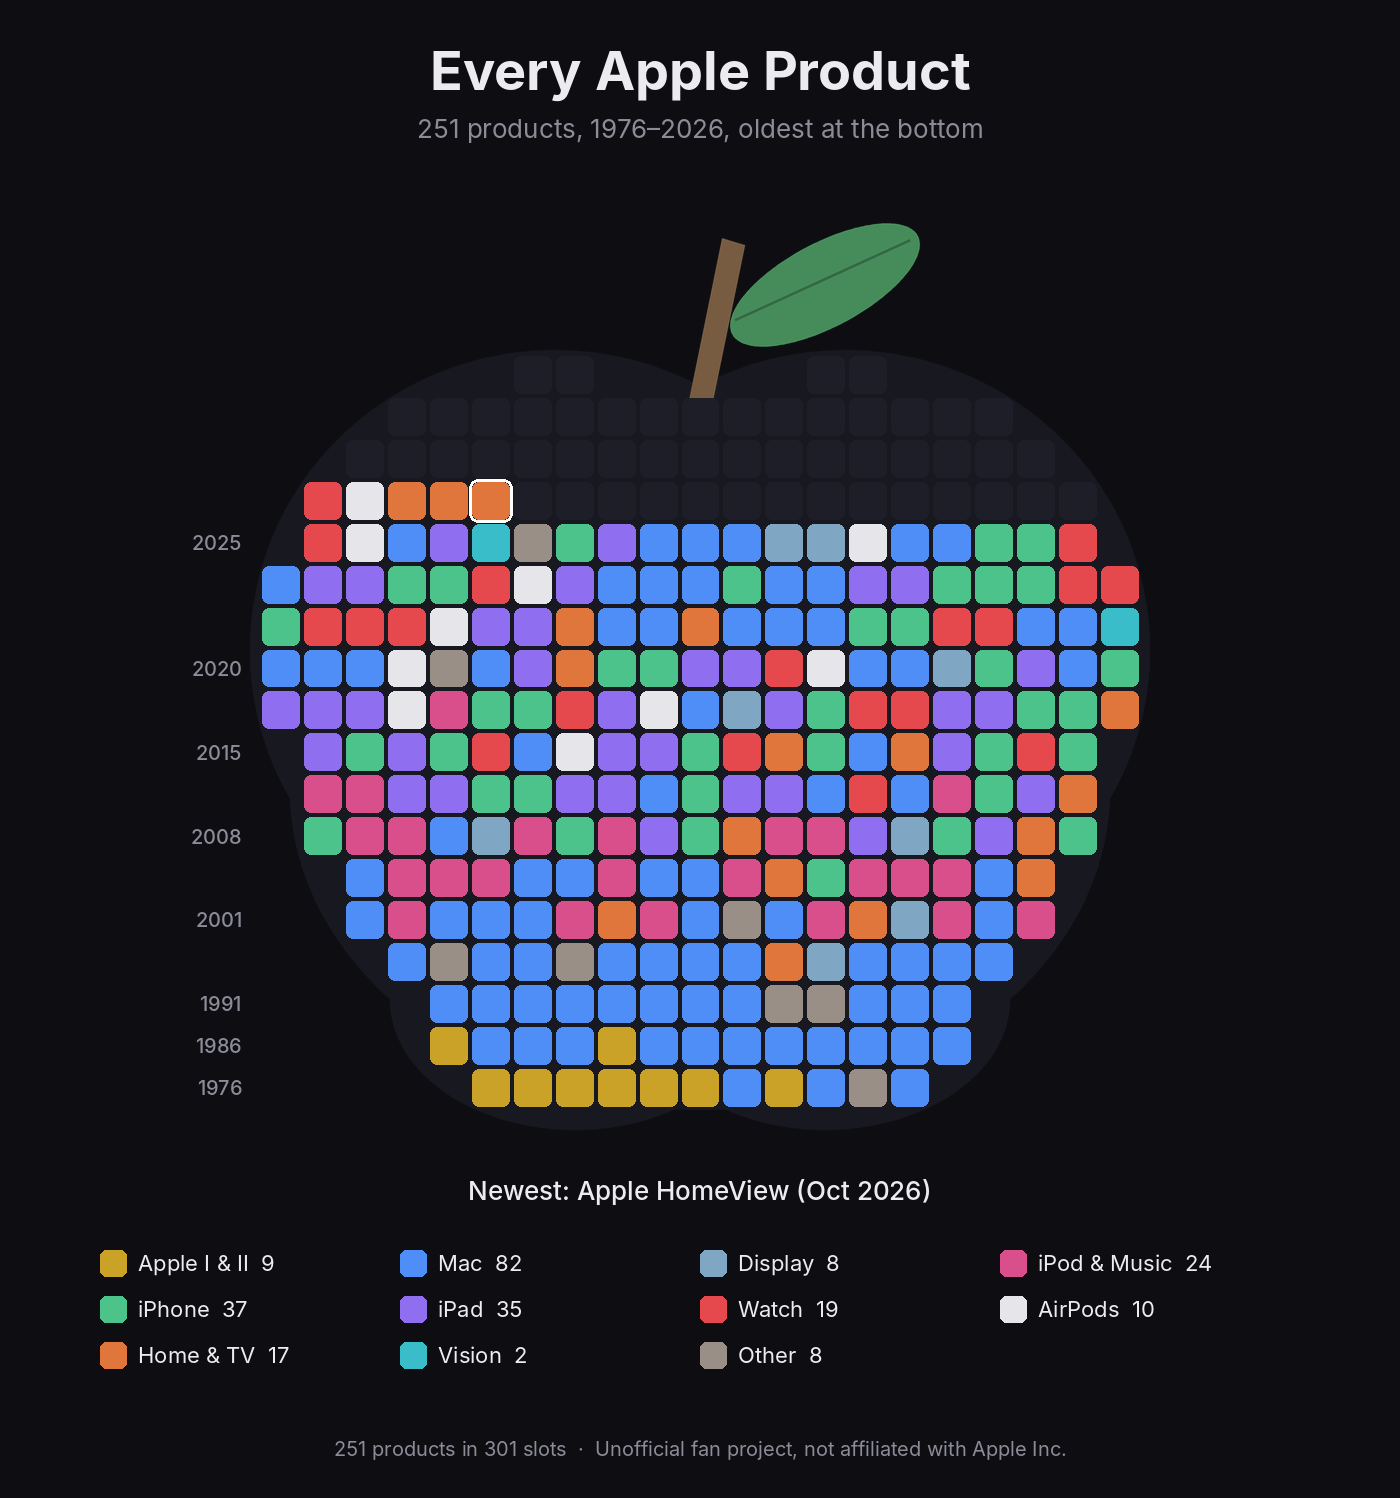
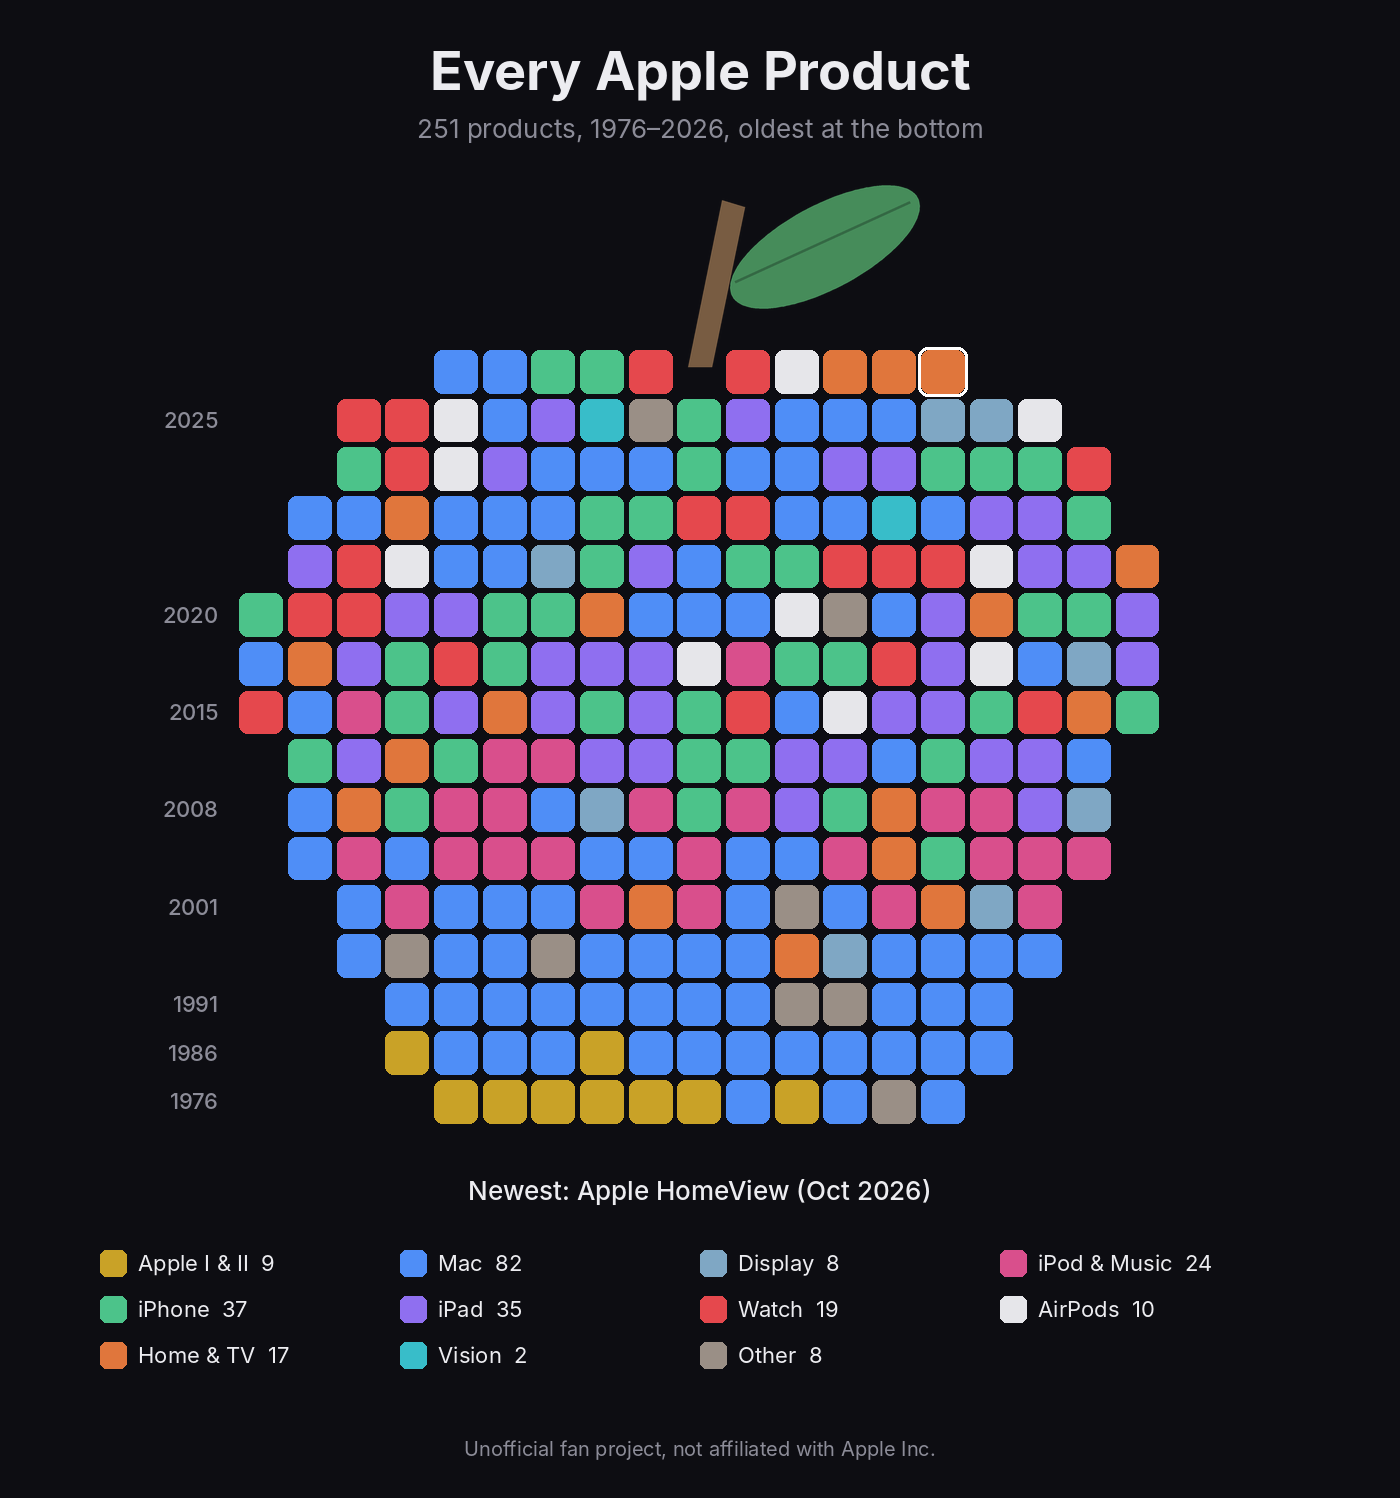
Fill the apple completely with no outline or empty slots
Claude-Session: https://claude.ai/code/session_01MyV9r8x459Jz8C5bHCgrmS

diff --git a/scripts/render.py b/scripts/render.py
@@ -21,13 +21,14 @@ from common import CATEGORIES, OUTPUT_DIR, load_products
 BACKGROUND = (13, 13, 18)
 TEXT = (236, 236, 240)
 MUTED = (140, 140, 152)
-EMPTY_TILE = (30, 30, 40)
 STEM = (120, 92, 66)
 LEAF = (70, 140, 90)
 
 WIDTH = 1400
 SHAPE_SIZE = 1000  # width and height of the square box the apple is drawn in
 SUPERSAMPLE = 4
+STEM_BASE = 0.255  # where the stem meets the apple, as a share of SHAPE_SIZE
+LEAF_TOP = 0.08   # highest point of the stem and leaf
 
 
 # --------------------------------------------------------------------------- fonts
@@ -113,51 +114,57 @@ class Cell:
     size: float
 
 
-def grid_cells(mask: np.ndarray, cell: float) -> list[Cell]:
-    """Every square cell of the given size that sits fully inside the mask."""
+def _coverage(mask: np.ndarray, cell: float, ox: float, oy: float):
+    """Grid of candidate cells and the share of each cell that lies inside the mask."""
     h, w = mask.shape
-    inset = cell * 0.08
-    cells = []
-    rows = int(h // cell)
-    cols = int(w // cell)
-    x_offset = (w - cols * cell) / 2
-    y_offset = (h - rows * cell)  # align the grid to the bottom so it fills upward
-    for r in range(rows):
-        for c in range(cols):
-            x0 = x_offset + c * cell
-            y0 = y_offset + r * cell
-            probes = [
-                (x0 + cell / 2, y0 + cell / 2),
-                (x0 + inset, y0 + inset),
-                (x0 + cell - inset, y0 + inset),
-                (x0 + inset, y0 + cell - inset),
-                (x0 + cell - inset, y0 + cell - inset),
-            ]
-            if all(mask[int(py), int(px)] > 127 for px, py in probes):
-                cells.append(Cell(x0, y0, cell))
+    cols = np.arange(-1, int(w / cell) + 1)
+    rows = np.arange(-1, int(h / cell) + 1)
+    x0 = ox + cols * cell
+    y0 = h - oy - (rows + 1) * cell  # rows counted upward from the bottom edge
+    samples = (np.arange(4) + 0.5) / 4 * cell
+    xs = (x0[None, :, None] + samples[None, None, :])  # (1, cols, 4)
+    ys = (y0[:, None, None] + samples[None, None, :])  # (rows, 1, 4)
+    xi = np.clip(xs.astype(int), 0, w - 1)
+    yi = np.clip(ys.astype(int), 0, h - 1)
+    inside = mask[yi[:, :, :, None], xi[:, :, None, :]] > 127  # (rows, cols, 4, 4)
+    valid = ((xs >= 0) & (xs < w))[:, :, None, :] & ((ys >= 0) & (ys < h))[:, :, :, None]
+    coverage = (inside & valid).mean(axis=(2, 3))
+    return x0, y0, coverage
+
+
+def exact_grid(mask: np.ndarray, count: int, threshold: float = 0.5) -> list[Cell]:
+    """Exactly `count` square tiles that together fill the whole apple.
+
+    The search tries many tile sizes and grid offsets and keeps the largest tile size
+    whose grid has at least `count` cells that are mostly inside the shape. If that grid
+    has a few extra cells, the ones least inside the shape are dropped, so the apple is
+    always completely full with no empty slots.
+    """
+    if count <= 0:
+        return []
+    offsets = [0.0, 0.25, 0.5, 0.75]
+    best = None  # (cell size, surplus, x0, y0, coverage)
+    lo, hi = 2.0, mask.shape[0] / 2
+    for _ in range(36):
+        mid = (lo + hi) / 2
+        candidate = None
+        for fx in offsets:
+            for fy in offsets:
+                x0, y0, cov = _coverage(mask, mid, fx * mid, fy * mid)
+                n = int((cov >= threshold).sum())
+                if n >= count and (candidate is None or n - count < candidate[1]):
+                    candidate = (mid, n - count, x0, y0, cov)
+        if candidate:
+            best, lo = candidate, mid
+        else:
+            hi = mid
+    size, _, x0, y0, cov = best
+    r_idx, c_idx = np.nonzero(cov >= threshold)
+    order = np.argsort(-cov[r_idx, c_idx], kind="stable")[:count]
+    cells = [Cell(float(x0[c_idx[i]]), float(y0[r_idx[i]]), size) for i in order]
     # Fill order: bottom row first, left to right, like water filling a glass.
     cells.sort(key=lambda k: (-round(k.y, 3), k.x))
     return cells
-
-
-def fit_grid(mask: np.ndarray, capacity: int) -> list[Cell]:
-    """Largest cell size that still yields at least `capacity` cells."""
-    lo, hi = 4.0, mask.shape[0] / 2
-    best = grid_cells(mask, lo)
-    for _ in range(40):
-        mid = (lo + hi) / 2
-        cells = grid_cells(mask, mid)
-        if len(cells) >= capacity:
-            best, lo = cells, mid
-        else:
-            hi = mid
-    return best
-
-
-def capacity_for(count: int, step: int) -> int:
-    """Round up to the next step so the apple visibly fills before it resizes."""
-    target = math.ceil(count * 1.05)
-    return max(step, math.ceil(target / step) * step)
 
 
 # --------------------------------------------------------------------------- drawing helpers
@@ -210,17 +217,21 @@ def fit_label(text: str, max_width: float, start_size: int):
 
 # --------------------------------------------------------------------------- main render
 
-def render(products: list[dict], title: str, subtitle: str, step: int,
+def render(products: list[dict], title: str, subtitle: str,
            show_labels: bool, row_years: bool, cells: list[Cell] | None = None,
            highlight_newest: bool = True,
            legend: list[str] | None = None) -> tuple[Image.Image, list[Cell]]:
     mask_img = body_mask(SHAPE_SIZE)
     mask = np.array(mask_img)
     if cells is None:
-        cells = fit_grid(mask, capacity_for(len(products), step))
+        cells = exact_grid(mask, len(products))
 
     shape_x = (WIDTH - SHAPE_SIZE) // 2
-    shape_y = 150
+    # The stem's base tucks just inside the top row of tiles, wherever that row lands.
+    cell_size = cells[0].size if cells else 0
+    top_tile = min((c.y for c in cells), default=STEM_BASE * SHAPE_SIZE)
+    stem_shift = int(top_tile + 0.4 * cell_size - STEM_BASE * SHAPE_SIZE)
+    shape_y = max(150, 175 - int(LEAF_TOP * SHAPE_SIZE) - stem_shift)
     categories = legend or [c for c in CATEGORIES if any(p["category"] == c for p in products)]
     legend_rows = math.ceil(len(categories) / 4) if categories else 0
     height = shape_y + SHAPE_SIZE + 90 + legend_rows * 46 + 120
@@ -232,23 +243,14 @@ def render(products: list[dict], title: str, subtitle: str, step: int,
     draw.text((WIDTH / 2, 70), title, font=font(54, "Bold"), fill=TEXT, anchor="mm")
     draw.text((WIDTH / 2, 128), subtitle, font=font(26), fill=MUTED, anchor="mm")
 
-    # Faint silhouette so empty space still reads as an apple.
-    ghost = Image.new("RGBA", (SHAPE_SIZE, SHAPE_SIZE), (24, 24, 32, 255))
-    canvas.paste(ghost, (shape_x, shape_y), mask_img)
-    draw_stem_and_leaf(canvas, (shape_x, shape_y), SHAPE_SIZE)
+    # No outline: the tiles themselves form the apple. Only the stem and leaf are drawn.
+    draw_stem_and_leaf(canvas, (shape_x, shape_y + stem_shift), SHAPE_SIZE)
     draw = ImageDraw.Draw(canvas)
 
-    cell_size = cells[0].size if cells else 0
     gap = max(1.0, cell_size * 0.12)
     radius = max(1, int(cell_size * 0.18))
     label_font_size = max(10, int(cell_size * 0.16))
     label_font = font(label_font_size, "SemiBold")
-
-    # Empty slots first, then the filled tiles on top.
-    for cell in cells[len(products):]:
-        box = (shape_x + cell.x + gap / 2, shape_y + cell.y + gap / 2,
-               shape_x + cell.x + cell.size - gap / 2, shape_y + cell.y + cell.size - gap / 2)
-        draw.rounded_rectangle(box, radius=radius, fill=EMPTY_TILE)
 
     last_labeled_year = None
     last_row_y = None
@@ -303,8 +305,7 @@ def render(products: list[dict], title: str, subtitle: str, step: int,
         draw.text((x + 38, y + 13), f"{cat}  {count}", font=legend_font,
                   fill=TEXT if count else MUTED, anchor="lm")
 
-    footer = (f"{len(products)} products in {len(cells)} slots  ·  "
-              "Unofficial fan project, not affiliated with Apple Inc.")
+    footer = "Unofficial fan project, not affiliated with Apple Inc."
     draw.text((WIDTH / 2, height - 50), footer, font=font(20), fill=MUTED, anchor="mm")
     return canvas.convert("RGB"), cells
 
@@ -314,7 +315,7 @@ def build_all_time(products):
     return dict(
         title="Every Apple Product",
         subtitle=f"{len(products)} products, {first}–{last}, oldest at the bottom",
-        step=50, show_labels=False, row_years=True,
+        show_labels=False, row_years=True,
     )
 
 
@@ -322,14 +323,12 @@ def build_current(products):
     return dict(
         title="Apple's Current Lineup",
         subtitle=f"{len(products)} products sold new on apple.com, oldest at the bottom",
-        step=8, show_labels=True, row_years=False,
+        show_labels=True, row_years=False,
     )
 
 
 def animate(products: list[dict], path) -> None:
-    """One frame per year on the final grid, so the apple fills over time."""
-    settings = build_all_time(products)
-    _, cells = render(products, **settings)
+    """One frame per year. Every frame is a full apple, with tiles shrinking as products are added."""
     legend = [c for c in CATEGORIES if any(p["category"] == c for p in products)]
     first, last = int(products[0]["date"][:4]), int(products[-1]["date"][:4])
     frames = []
@@ -337,8 +336,8 @@ def animate(products: list[dict], path) -> None:
         subset = [p for p in products if int(p["date"][:4]) <= year]
         frame, _ = render(subset, title=f"Every Apple Product: {year}",
                           subtitle=f"{len(subset)} products so far",
-                          step=settings["step"], show_labels=False, row_years=True,
-                          cells=cells, highlight_newest=False, legend=legend)
+                          show_labels=False, row_years=True,
+                          highlight_newest=False, legend=legend)
         frames.append(frame.resize((frame.width // 2, frame.height // 2), Image.LANCZOS))
     durations = [180] * (len(frames) - 1) + [2500]
     frames[0].save(path, save_all=True, append_images=frames[1:], duration=durations,

diff --git a/tests/test_scripts.py b/tests/test_scripts.py
@@ -80,5 +80,11 @@ def test_fingerprint_matches_generation_names():
 def test_render_produces_images():
     products = sorted(load()["products"], key=lambda p: p["date"])
     image, cells = render.render(products, **render.build_all_time(products))
-    assert len(cells) >= len(products)
+    assert len(cells) == len(products), "the apple must be exactly full"
     assert image.width == render.WIDTH
+
+
+def test_every_count_fills_exactly():
+    mask = render.np.array(render.body_mask(render.SHAPE_SIZE))
+    for count in (1, 7, 32, 100, 251, 400):
+        assert len(render.exact_grid(mask, count)) == count

diff --git a/README.md b/README.md
@@ -1,6 +1,6 @@
 # Apple Fill
 
-Every Apple product, in release order, filling an apple from the bottom up. When Apple releases something new, the next tile lights up. When the apple runs out of room, the tiles shrink and the apple keeps filling.
+Every Apple product, in release order, stacked from the bottom up into the shape of an apple. There is no outline and no empty space: the tiles themselves form the apple. When Apple releases something new, every tile shrinks slightly to make room, and the apple is full again.
 
 There are two versions:
 
@@ -8,16 +8,16 @@ There are two versions:
 | --- | --- |
 | ![Every Apple product](output/all_time.png) | ![Current Apple lineup](output/current.png) |
 
-And the whole history as an animation, one frame per year:
+And the whole history as an animation, one frame per year, with the tiles shrinking as the catalog grows:
 
 ![Apple products filling the apple, year by year](output/all_time.gif)
 
 ## How it works
 
 1. **The data** lives in [`data/products.json`](data/products.json). Each product has a name, a category, a release month, and a `current` flag that says whether apple.com still sells it new.
-2. **The shape** is an original apple-fruit silhouette built from overlapping ellipses. It is not Apple's logo.
-3. **The grid** is the largest set of square tiles that fits inside the shape. Tiles fill bottom row first, left to right, oldest product first, like water filling a glass.
-4. **The capacity** rounds up to the next 50 tiles (all-time) or 8 tiles (current lineup), so the apple fills visibly before it resizes.
+2. **The shape** is an original apple-fruit silhouette built from overlapping ellipses. It is used only to place the tiles and is never drawn. The stem and leaf sit on top. It is not Apple's logo.
+3. **The grid** has exactly one tile per product. The script tries many tile sizes and grid positions, keeps the largest tiles that cover the shape, and trims any extra edge tiles, so the apple is always completely full.
+4. **The order** is bottom row first, left to right, oldest product first. The newest product sits at the top, outlined in white.
 5. **The weekly update** runs on GitHub Actions every Monday. It checks Wikipedia for new releases, checks apple.com for the current lineup, redraws the images, and opens a pull request for review.
 
 ### What counts as a product
